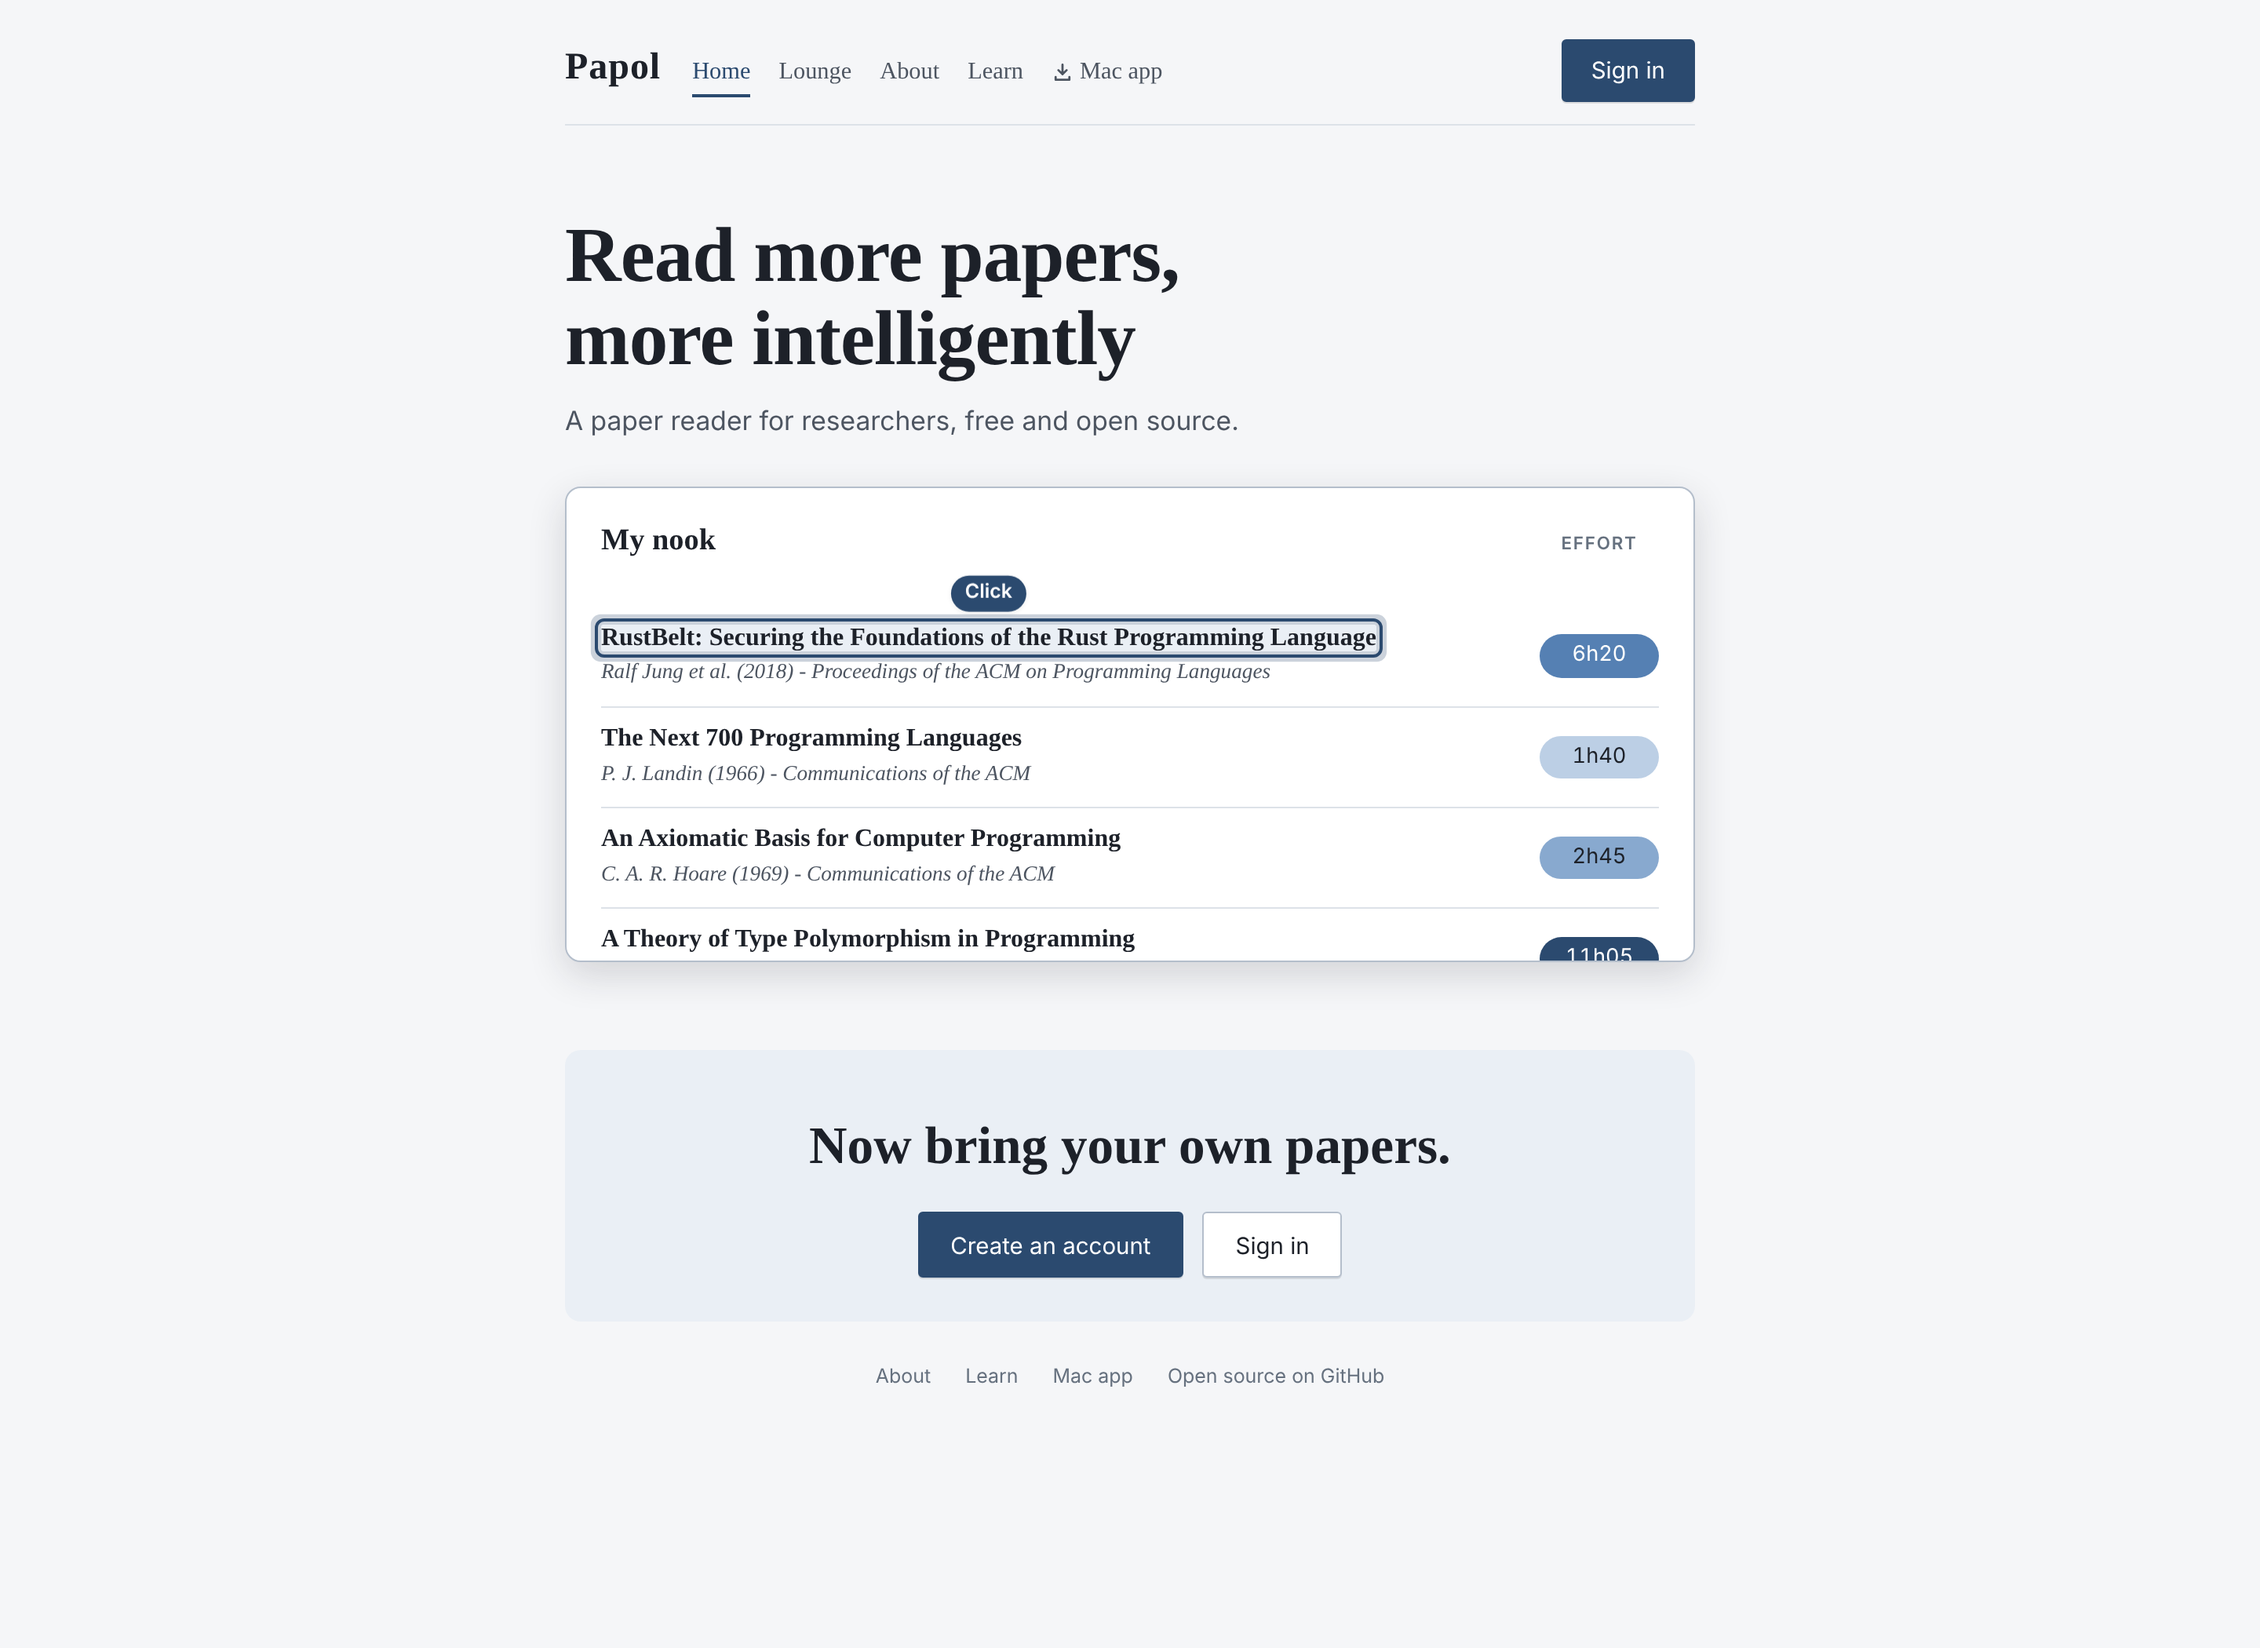
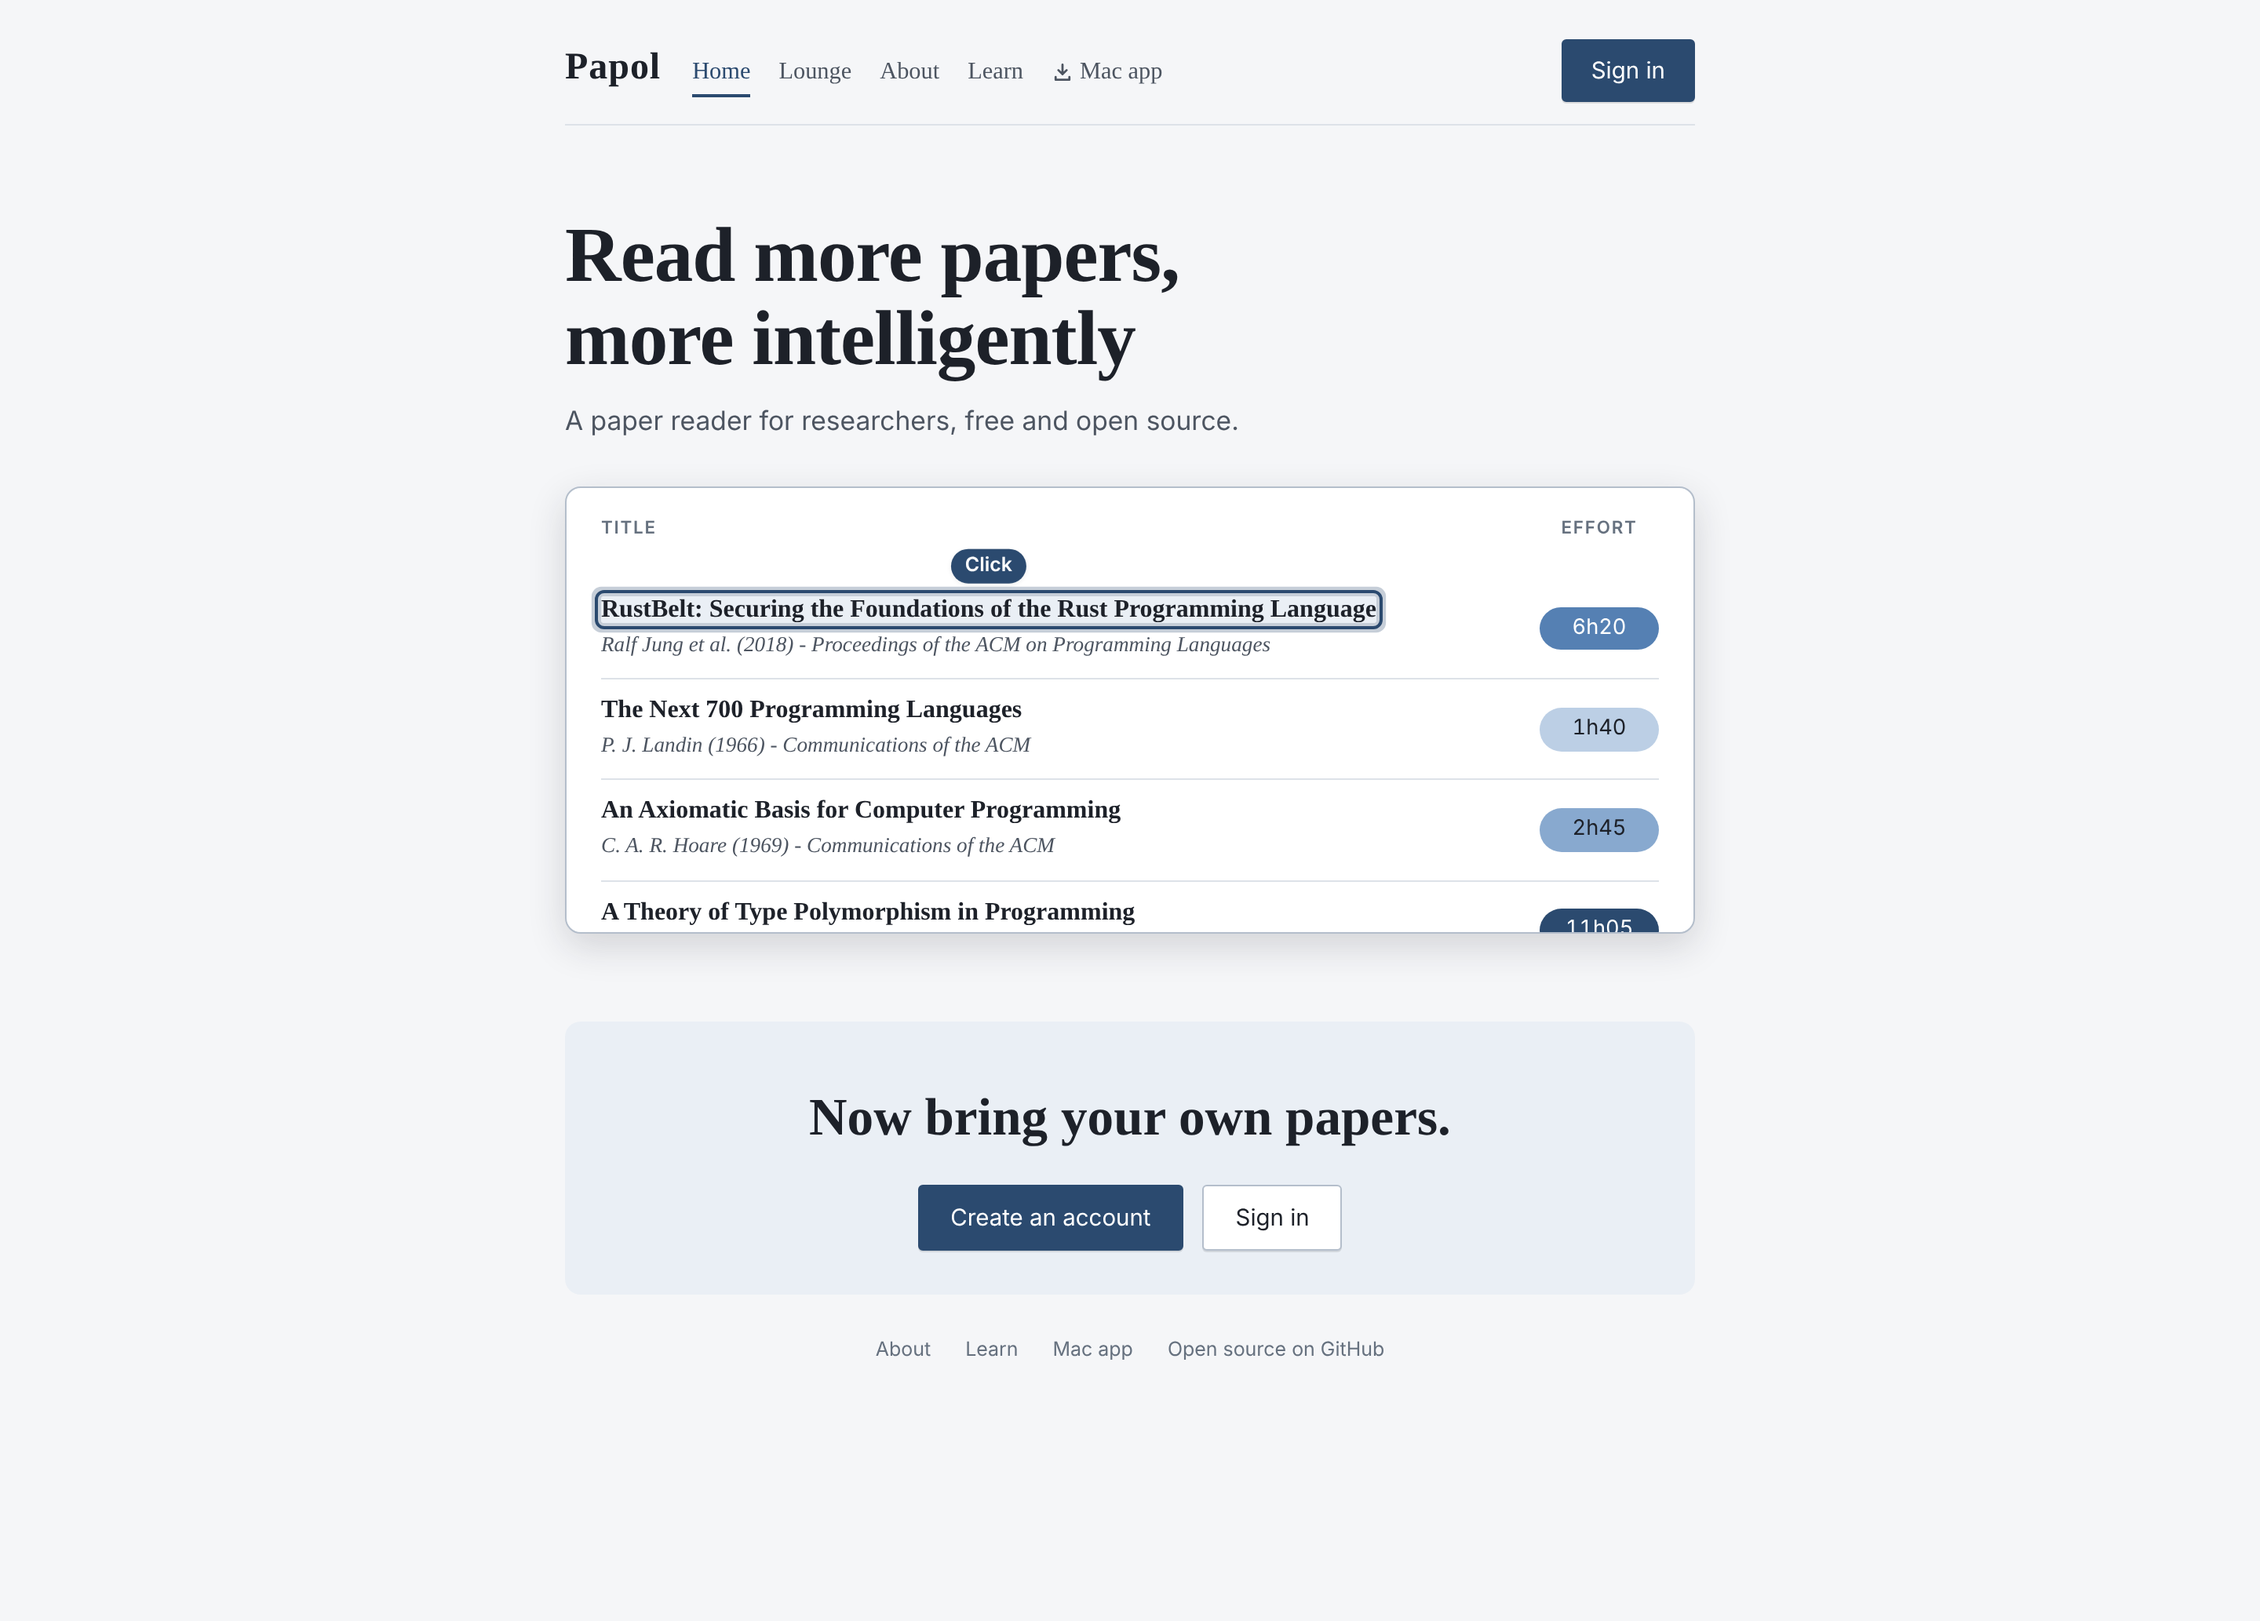
The landing list is headed Title and Effort, not My nook
A visitor has no nook yet, so the list carries the column headings a
nook's table has instead of a name.

Claude-Session: https://claude.ai/code/session_01PQZzMUS3tB21Bk48RQwY8X

diff --git a/shared/applicationStyles.js b/shared/applicationStyles.js
@@ -3842,8 +3842,8 @@ a.button:hover {
    tag over it inside what it clips. */
 .landing-nook-list { overflow-y: auto; overscroll-behavior: contain; margin: 0 -8px; padding: 26px 8px 0; }
 .landing-nook-list:focus-visible { outline: 2px solid var(--focus); outline-offset: 2px; }
-.landing-nook-name { color: var(--ink); font-size: var(--fs-xl); font-weight: 600; }
-.landing-nook-column { width: 4.75rem; color: var(--ink-faint); font: 600 var(--fs-2xs) var(--font-ui); letter-spacing: .08em; text-align: center; text-transform: uppercase; }
+.landing-nook-column { color: var(--ink-faint); font: 600 var(--fs-2xs) var(--font-ui); letter-spacing: .08em; text-transform: uppercase; }
+.landing-nook-column.is-effort { width: 4.75rem; text-align: center; }
 /* No shelf bars here, so a row needs no lane for one. */
 .landing-nook .paper-list li { padding-left: 0; padding-right: 0; cursor: pointer; }
 .landing-nook li:hover .paper-title-link { color: var(--accent); }

diff --git a/frontend/src/components/HomeNook.jsx b/frontend/src/components/HomeNook.jsx
@@ -64,8 +64,8 @@ export default function HomeNook({ onOpen }) {
   return (
     <div className="landing-nook">
       <p className="landing-nook-head">
-        <span className="landing-nook-name">My nook</span>
-        <span className="landing-nook-column">Effort</span>
+        <span className="landing-nook-column">Title</span>
+        <span className="landing-nook-column is-effort">Effort</span>
       </p>
       <div
         ref={listRef}
